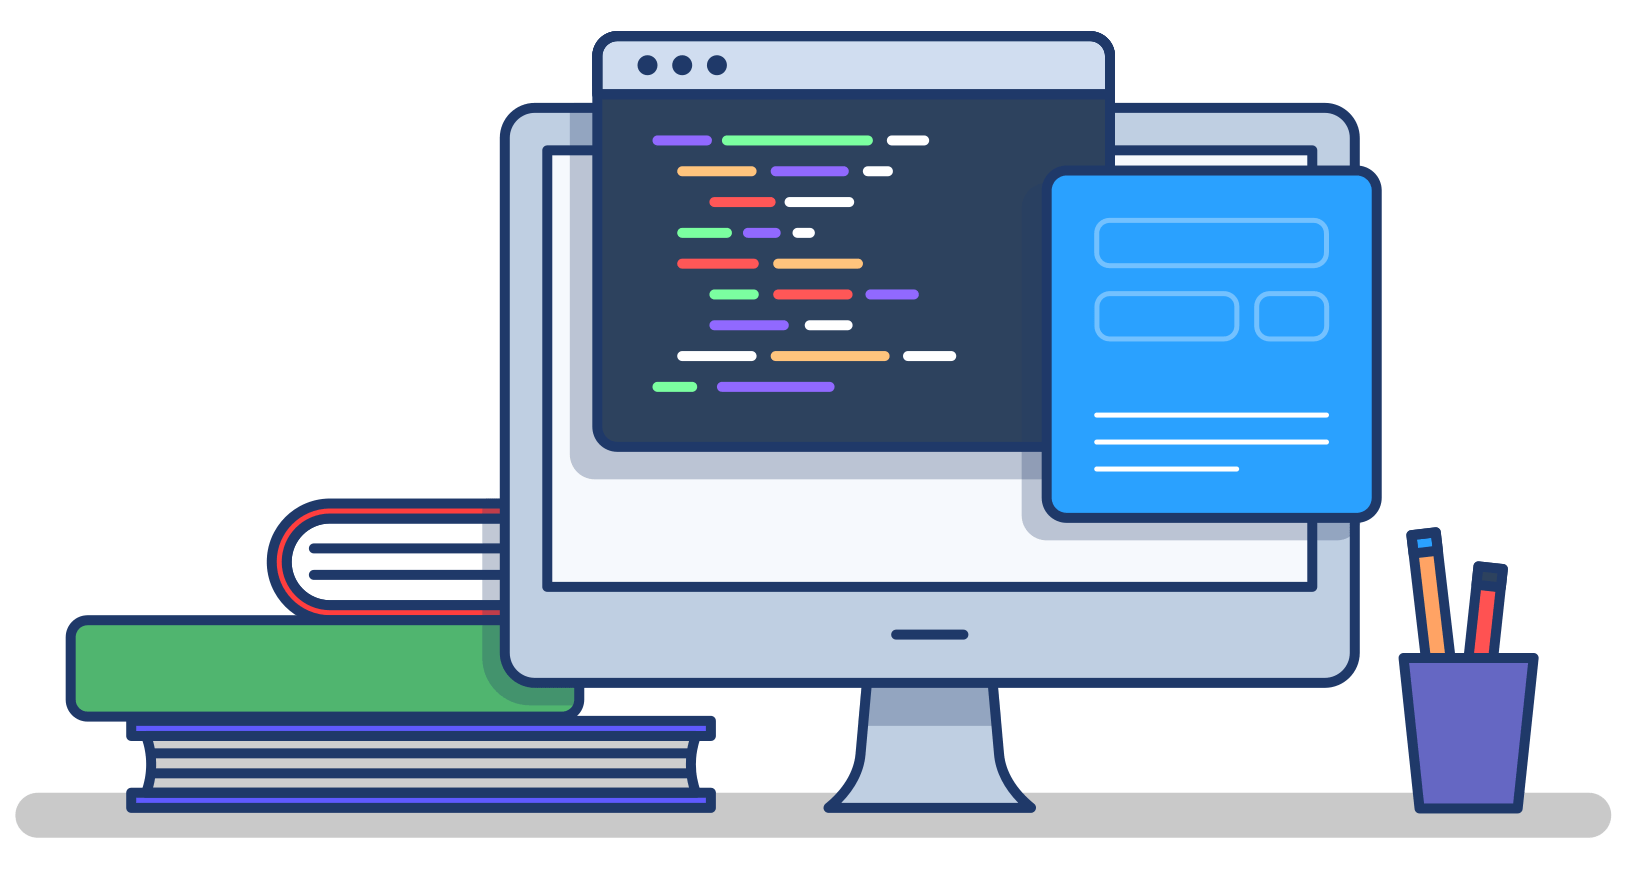
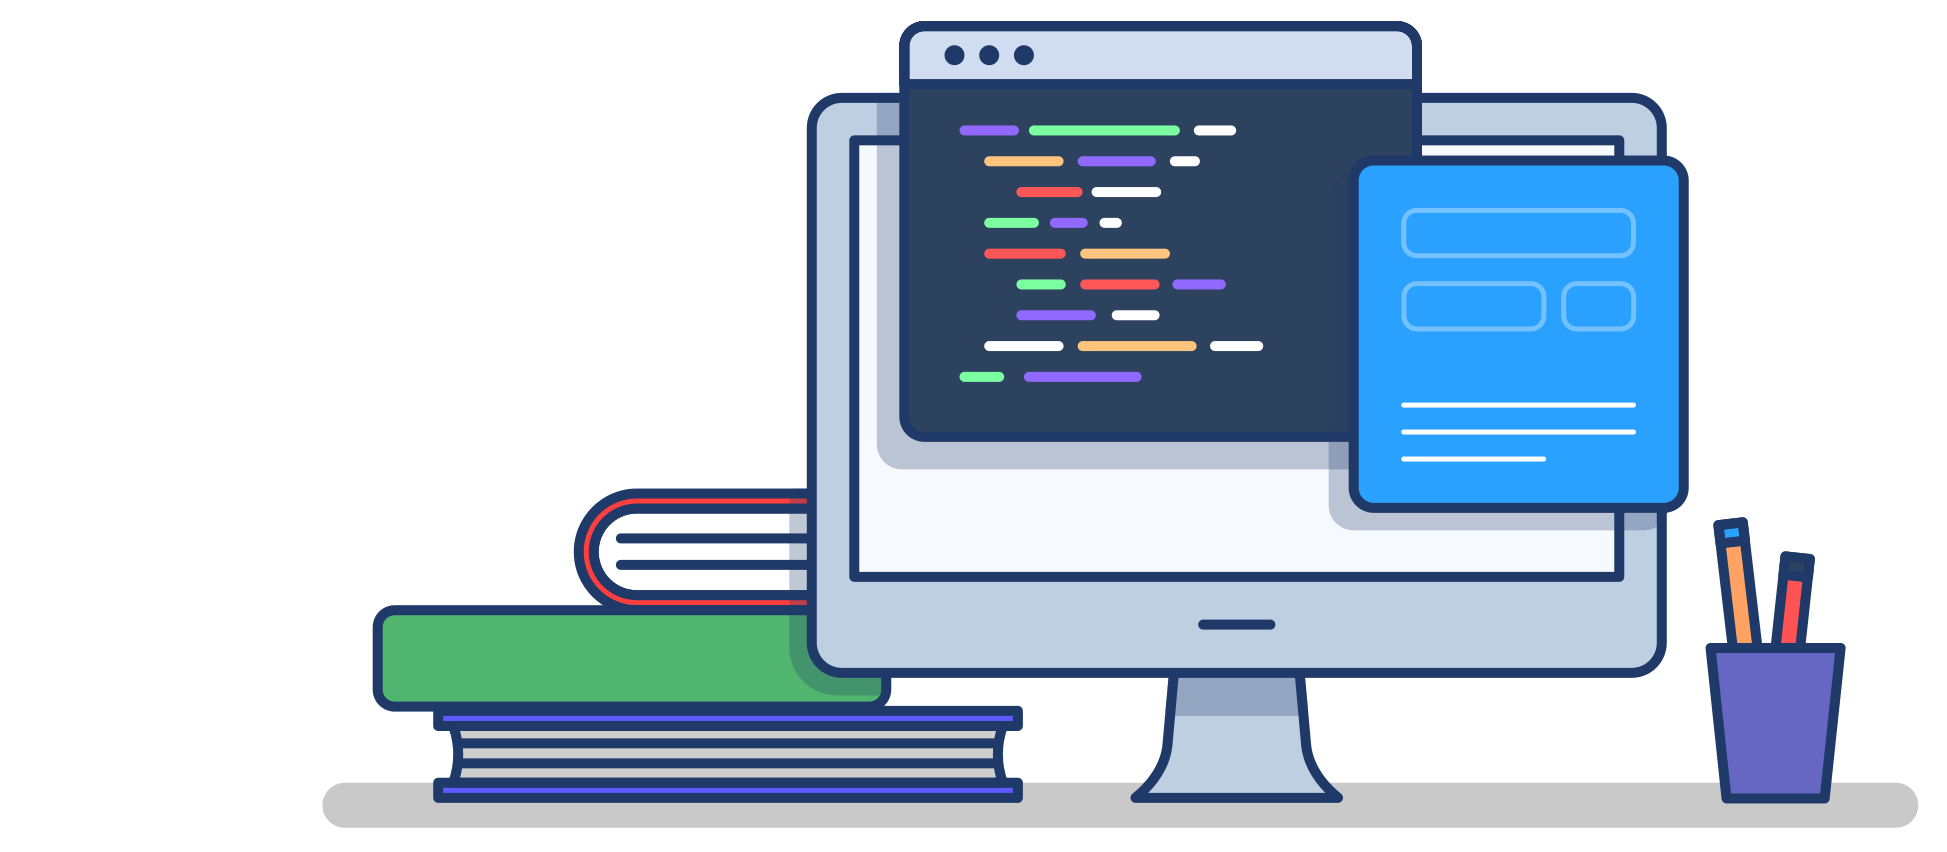
update

diff --git a/docs/overrides/home.html b/docs/overrides/home.html
@@ -104,11 +104,11 @@
         }
 
         .tx-hero__image {
-            margin-left: auto;
+            margin-right: auto;
         }
 
         .tx-hero__image img {
-            max-width: 30rem;
+            max-width: 25rem;
         }
     }
 </style>
